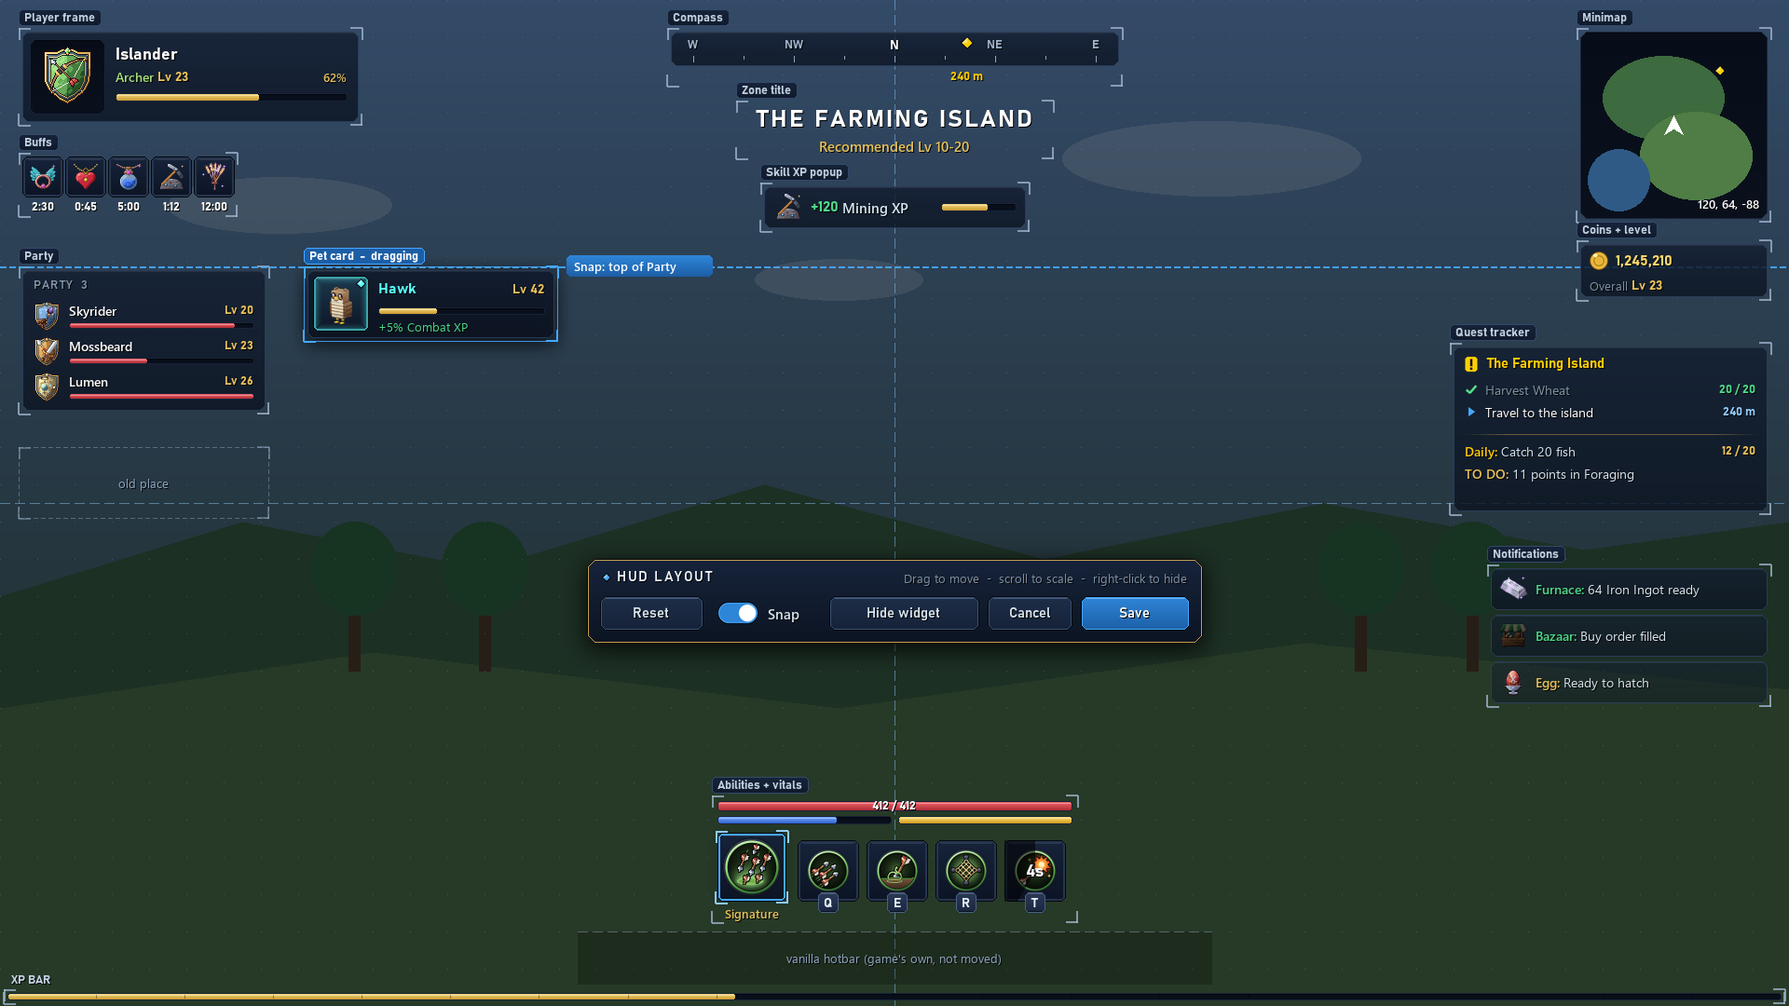
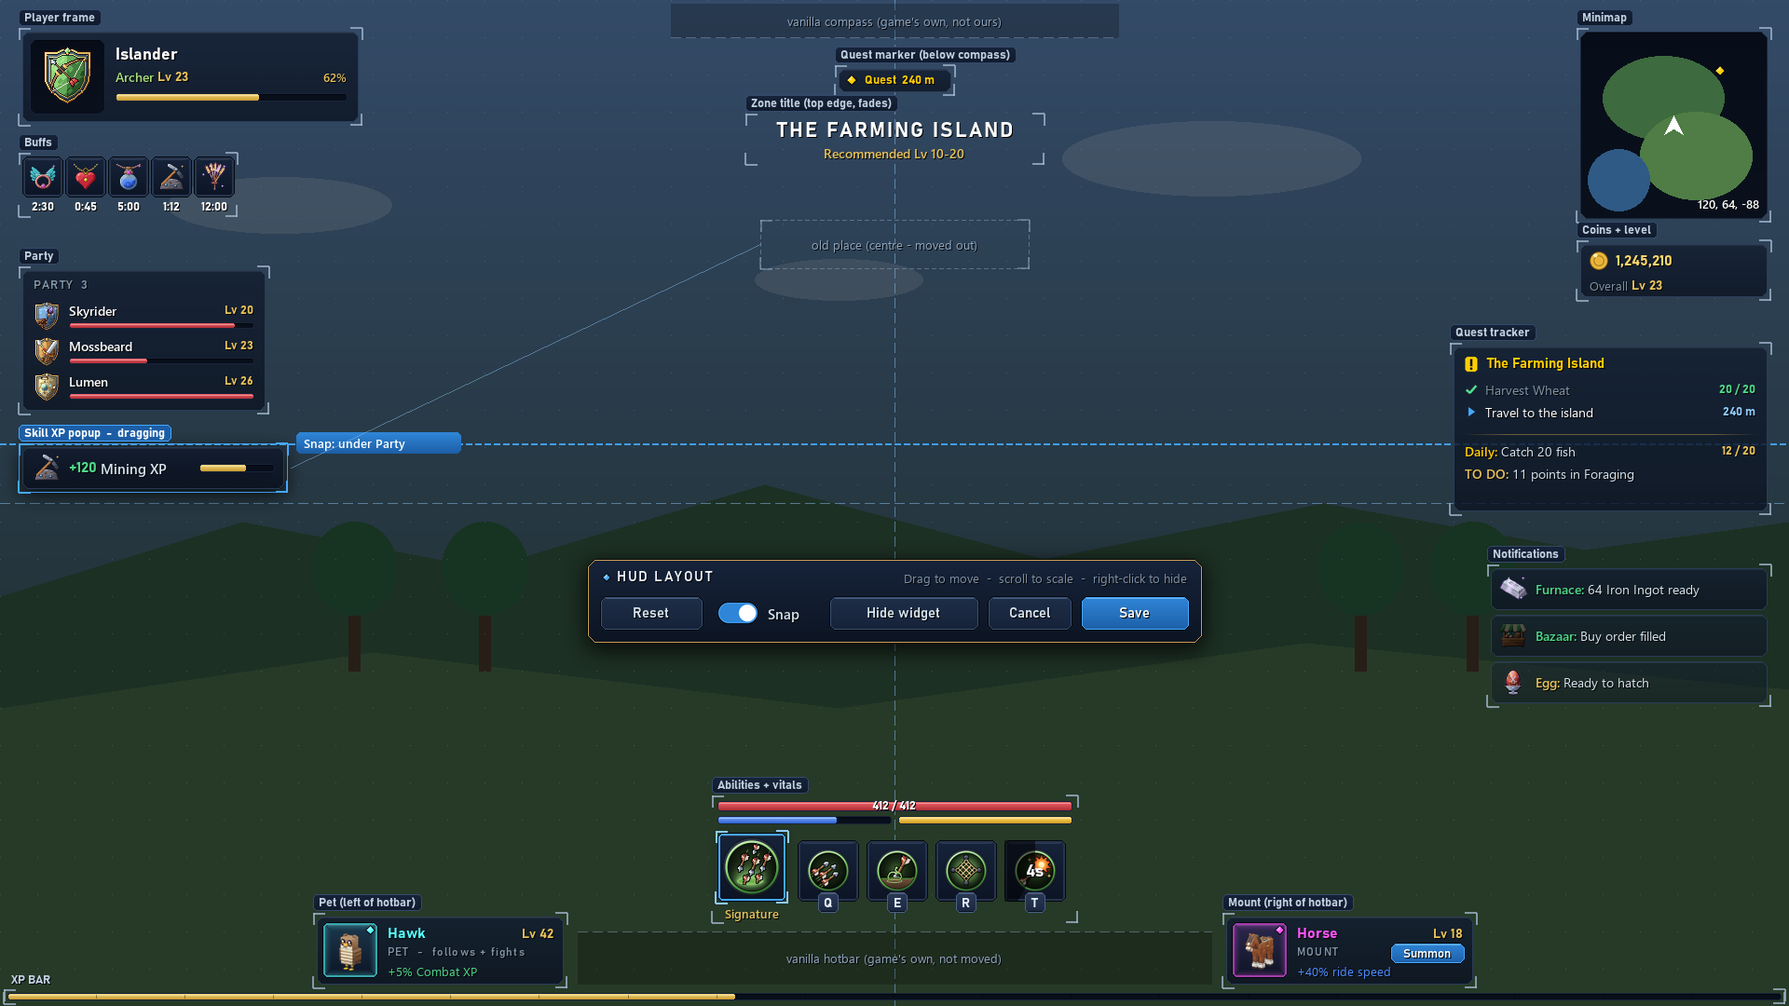
art: HUD v5 (vanilla compass kept, centre clear, pet left / mount right of hotbar); pet + mount slot change recorded

diff --git a/research/ui-theme-art/make_ui_theme.py b/research/ui-theme-art/make_ui_theme.py
@@ -2742,7 +2742,69 @@ def dashed(im, pts, col, alpha=170, dash=10, gap=6, width=1):
             d.line([(x, y0), (min(x1, x + dash), y0)], fill=rgb(col, alpha), width=width)
 
 
-def make_hud_editor():
+def _hud_v4_petdrag(im, W):
+    gbox = (20, 480, 288, 556)
+    brackets(im, gbox, "", ghost=True)
+    text(im, (154, 518), "old place", font("body", 13), "#8fa6c0", "mm")
+    nx0, ny0 = 330, 290
+    nb = (nx0, ny0, nx0 + 264, ny0 + 72)
+    shadow(im, nb, 10, 200, 6)
+    hud_panel(im, nb, 235)
+    slot(im, nx0 + 6, ny0 + 6, "empty", RAR["Legendary"], I_PET % "Hawk", size=60)
+    text(im, (nx0 + 76, ny0 + 20), "Hawk", font("headb", 16), RAR["Legendary"], "lm")
+    text(im, (nx0 + 254, ny0 + 20), "Lv 42", font("headb", 14), PAL["xp"], "rm")
+    bar(im, (nx0 + 76, ny0 + 40, nx0 + 254, ny0 + 47), 0.35, "xp")
+    text(im, (nx0 + 76, ny0 + 60), "+5% Combat XP", font("body", 13), PAL["green"], "lm")
+    brackets(im, (nb[0] - 4, nb[1] - 4, nb[2] + 4, nb[3] + 4), "Pet card  -  dragging", active=True)
+    dashed(im, ((0, ny0 - 4), (W, ny0 - 4)), A["base"], 230, 6, 4, 2)
+    grad_fill(im, (nb[2] + 14, ny0 - 16, nb[2] + 170, ny0 + 6), A["btnTop"], A["btnBot"], c=3)
+    text(im, (nb[2] + 22, ny0 - 5), "Snap: top of Party", font("bodyb", 13), "#ffffff", "lm", shadow=False)
+
+
+def _hud_v4_compass(im, d):
+    # ---- compass + quest marker (top centre)
+    cb = (720, 34, 1200, 70)
+    hud_panel(im, cb)
+    d = ImageDraw.Draw(im, "RGBA")
+    for i, lab in enumerate(("W", "", "NW", "", "N", "", "NE", "", "E")):
+        x = 744 + i * 54
+        d.line([(x, 60), (x, 66 if lab else 63)], fill=rgb("#8fa6c0"))
+        if lab:
+            text(im, (x, 48), lab, font("headb", 14 if lab == "N" else 13), "#ffffff" if lab == "N" else "#9fb3cc", "mm")
+    put(im, g_diamond(14, PAL["action"]), 1031, 39)
+    text(im, (1038, 82), "240 m", font("headb", 13), PAL["action"], "mm")
+    brackets(im, (716, 30, 1204, 92), "Compass")
+    # ---- zone title
+    text(im, (960, 128), "THE FARMING ISLAND", font("headb", 26), "#ffffff", "mm", track=2)
+    text(im, (960, 156), "Recommended Lv 10-20", font("bodyb", 15), PAL["xp"], "mm")
+    brackets(im, (790, 108, 1130, 170), "Zone title")
+    # ---- skills XP popup
+    sb = (820, 200, 1100, 244)
+    hud_panel(im, sb)
+    paste_icon(im, I_WARP % "Mining", 830, 206, 32)
+    rich(im, 870, 222, [("+120 ", font("headb", 16), PAL["green"]), ("Mining XP", font("bodyb", 15), PAL["row"])])
+    bar(im, (1010, 218, 1090, 226), 0.62, "xp")
+    brackets(im, (816, 196, 1104, 248), "Skill XP popup")
+
+
+def pet_mount_card(im, x0, y0, cap, ic, nm, lv, r, sub, subcol, keycap=None):
+    """v5 bottom cards beside the hotbar (Skyy 11-14: pets left of the hotbar, mount right)."""
+    nb = (x0, y0, x0 + 264, y0 + 72)
+    hud_panel(im, nb, 225)
+    slot(im, x0 + 6, y0 + 6, "empty", RAR[r], I_PET % ic, size=60)
+    text(im, (x0 + 76, y0 + 18), nm, font("headb", 16), RAR[r], "lm")
+    text(im, (x0 + 254, y0 + 18), lv, font("headb", 14), PAL["xp"], "rm")
+    text(im, (x0 + 76, y0 + 38), cap, font("head", 12), PAL["dim"], "lm", track=1.2)
+    text(im, (x0 + 76, y0 + 58), sub, font("body", 13), subcol, "lm")
+    if keycap:
+        button(im, (x0 + 176, y0 + 28, x0 + 256, y0 + 50), "Summon", "primary", fsize=13)
+    return nb
+
+
+def make_hud_editor(v5=True):
+    """v4 = first HUD editor; v5 = Skyy 11-14 review: "the game already has a compass, so if we do anything thewre it has to be below
+    ithe vanilla one" + "try to keep things out of the center of the screen put pets to the left of the hot bar and mount to the right."
+    """
     set_accent("Sky Azure")
     W, H = 1920, 1080
     im = hud_world(W, H)
@@ -2778,46 +2840,43 @@ def make_hud_editor():
         text(im, (272, y + 9), "Lv %d" % (20 + i * 3), font("headb", 13), PAL["xp"], "rm")
         bar(im, (74, y + 22, 272, y + 28), hp, "health")
     brackets(im, (20, py - 4, 288, py + 154), "Party")
-    # ---- pet card: being dragged (ghost = old place, accent outline, snap guide)
-    gbox = (20, 480, 288, 556)
-    brackets(im, gbox, "", ghost=True)
-    text(im, (154, 518), "old place", font("body", 13), "#8fa6c0", "mm")
-    nx0, ny0 = 330, 290
-    nb = (nx0, ny0, nx0 + 264, ny0 + 72)
-    shadow(im, nb, 10, 200, 6)
-    hud_panel(im, nb, 235)
-    slot(im, nx0 + 6, ny0 + 6, "empty", RAR["Legendary"], I_PET % "Hawk", size=60)
-    text(im, (nx0 + 76, ny0 + 20), "Hawk", font("headb", 16), RAR["Legendary"], "lm")
-    text(im, (nx0 + 254, ny0 + 20), "Lv 42", font("headb", 14), PAL["xp"], "rm")
-    bar(im, (nx0 + 76, ny0 + 40, nx0 + 254, ny0 + 47), 0.35, "xp")
-    text(im, (nx0 + 76, ny0 + 60), "+5% Combat XP", font("body", 13), PAL["green"], "lm")
-    brackets(im, (nb[0] - 4, nb[1] - 4, nb[2] + 4, nb[3] + 4), "Pet card  -  dragging", active=True)
-    dashed(im, ((0, ny0 - 4), (W, ny0 - 4)), A["base"], 230, 6, 4, 2)
-    grad_fill(im, (nb[2] + 14, ny0 - 16, nb[2] + 170, ny0 + 6), A["btnTop"], A["btnBot"], c=3)
-    text(im, (nb[2] + 22, ny0 - 5), "Snap: top of Party", font("bodyb", 13), "#ffffff", "lm", shadow=False)
-    # ---- compass + quest marker (top centre)
-    cb = (720, 34, 1200, 70)
-    hud_panel(im, cb)
+    if v5:
+        # ---- Skill XP popup: dragged OFF the centre (ghost = its v4 place under the compass), snapping under the Party list
+        brackets(im, (816, 236, 1104, 288), "", ghost=True)
+        text(im, (960, 262), "old place (centre - moved out)", font("body", 13), "#8fa6c0", "mm")
+        sx0, sy0 = 24, 480
+        sb = (sx0, sy0, sx0 + 280, sy0 + 44)
+        shadow(im, sb, 10, 200, 6)
+        hud_panel(im, sb, 235)
+        paste_icon(im, I_WARP % "Mining", sx0 + 10, sy0 + 6, 32)
+        rich(im, sx0 + 50, sy0 + 22, [("+120 ", font("headb", 16), PAL["green"]), ("Mining XP", font("bodyb", 15), PAL["row"])])
+        bar(im, (sx0 + 190, sy0 + 18, sx0 + 270, sy0 + 26), 0.62, "xp")
+        brackets(im, (sb[0] - 4, sb[1] - 4, sb[2] + 4, sb[3] + 4), "Skill XP popup  -  dragging", active=True)
+        dashed(im, ((0, sy0 - 4), (W, sy0 - 4)), A["base"], 230, 6, 4, 2)
+        grad_fill(im, (sb[2] + 14, sy0 - 16, sb[2] + 190, sy0 + 6), A["btnTop"], A["btnBot"], c=3)
+        text(im, (sb[2] + 22, sy0 - 5), "Snap: under Party", font("bodyb", 13), "#ffffff", "lm", shadow=False)
+        d = ImageDraw.Draw(im, "RGBA")
+        d.line([(816, 262), (sb[2] + 8, sy0 + 22)], fill=rgb(A["hi"], 110), width=1)
+    else:
+        _hud_v4_petdrag(im, W)
     d = ImageDraw.Draw(im, "RGBA")
-    for i, lab in enumerate(("W", "", "NW", "", "N", "", "NE", "", "E")):
-        x = 744 + i * 54
-        d.line([(x, 60), (x, 66 if lab else 63)], fill=rgb("#8fa6c0"))
-        if lab:
-            text(im, (x, 48), lab, font("headb", 14 if lab == "N" else 13), "#ffffff" if lab == "N" else "#9fb3cc", "mm")
-    put(im, g_diamond(14, PAL["action"]), 1031, 39)
-    text(im, (1038, 82), "240 m", font("headb", 13), PAL["action"], "mm")
-    brackets(im, (716, 30, 1204, 92), "Compass")
-    # ---- zone title
-    text(im, (960, 128), "THE FARMING ISLAND", font("headb", 26), "#ffffff", "mm", track=2)
-    text(im, (960, 156), "Recommended Lv 10-20", font("bodyb", 15), PAL["xp"], "mm")
-    brackets(im, (790, 108, 1130, 170), "Zone title")
-    # ---- skills XP popup
-    sb = (820, 200, 1100, 244)
-    hud_panel(im, sb)
-    paste_icon(im, I_WARP % "Mining", 830, 206, 32)
-    rich(im, 870, 222, [("+120 ", font("headb", 16), PAL["green"]), ("Mining XP", font("bodyb", 15), PAL["row"])])
-    bar(im, (1010, 218, 1090, 226), 0.62, "xp")
-    brackets(im, (816, 196, 1104, 248), "Skill XP popup")
+    if v5:
+        # ---- the game's OWN compass stays (ghost); ours only adds a thin quest marker strip BELOW it
+        cb = (720, 4, 1200, 40)
+        d.rectangle(cb, fill=(0, 0, 0, 60))
+        dashed(im, ((cb[0], cb[3]), (cb[2], cb[3])), "#8fa6c0", 120)
+        text(im, (960, 22), "vanilla compass (game's own, not ours)", font("body", 13), "#8fa6c0", "mm")
+        qb = (900, 74, 1020, 98)
+        hud_panel(im, qb)
+        put(im, g_diamond(12, PAL["action"]), 908, 80)
+        text(im, (928, 86), "Quest  240 m", font("headb", 13), PAL["action"], "lm")
+        brackets(im, (896, 70, 1024, 102), "Quest marker (below compass)")
+        # ---- zone title: a slim banner under the compass strip, top edge only (fades after a few seconds)
+        text(im, (960, 140), "THE FARMING ISLAND", font("headb", 22), "#ffffff", "mm", track=2)
+        text(im, (960, 164), "Recommended Lv 10-20", font("bodyb", 14), PAL["xp"], "mm")
+        brackets(im, (800, 122, 1120, 176), "Zone title (top edge, fades)")
+    else:
+        _hud_v4_compass(im, d)
     # ---- minimap + coins / overall level (top-right)
     mb = (1696, 34, 1896, 234)
     panel(im, mb, inset=True, c=6)
@@ -2888,6 +2947,13 @@ def make_hud_editor():
     d.rectangle(hb, fill=(0, 0, 0, 60))
     dashed(im, ((hb[0], hb[1]), (hb[2], hb[1])), "#8fa6c0", 120)
     text(im, (960, 1028), "vanilla hotbar (game's own, not moved)", font("body", 13), "#8fa6c0", "mm")
+    if v5:
+        pb = pet_mount_card(im, hb[0] - 280, 984, "PET  -  follows + fights", "Hawk", "Hawk", "Lv 42", "Legendary",
+                            "+5% Combat XP", PAL["green"])
+        brackets(im, (pb[0] - 4, pb[1] - 4, pb[2] + 4, pb[3] + 4), "Pet (left of hotbar)")
+        mb2 = pet_mount_card(im, hb[2] + 16, 984, "MOUNT", "Horse", "Horse", "Lv 18", "Rare", "+40% ride speed", PAL["mana"],
+                             keycap="Z")
+        brackets(im, (mb2[0] - 4, mb2[1] - 4, mb2[2] + 4, mb2[3] + 4), "Mount (right of hotbar)")
     # ---- full-width XP bar
     bar(im, (8, 1066, 1911, 1073), 0.41, "xp", segs=20)
     brackets(im, (4, 1062, 1915, 1077), "")
@@ -3207,7 +3273,7 @@ def main():
            "inventory-mockup-mining.png": lambda: make_mockup_v3("mining", True),
            "inventory-mockup-chest.png": lambda: make_mockup_v3("chest", True),
            "inventory-mockup-furnace.png": lambda: make_mockup_v3("furnace", True),
-           "upgrade-mockup.png": make_upgrade, "hud-editor-mockup.png": make_hud_editor,
+           "upgrade-mockup.png": make_upgrade, "hud-editor-mockup.png": make_hud_editor, "hud-editor-mockup-v4.png": lambda: make_hud_editor(False),
            "accent-options.png": make_accents}
     only = sys.argv[1:]
     for fn, maker in out.items():

diff --git a/docs/answered/ui.md b/docs/answered/ui.md
@@ -203,3 +203,4 @@ New answers go in the 'New answers' block at the end and leave OPEN-QUESTIONS.md
 - 2026-11-14 UI (v3 review, with screenshots of today's Crafting > Smithing / Upgrade pages): Skyy "hang on, more changes coming. first, above the player and armor where it says character. remove those and reequip presets. (start with combat, mining, farming, foraging and fishing. all of them that have sets here. remove crafting from the top row, all crafting will be handled in the normal inventory crafting now. and replace it with a single upgrade tab, that combines all there here, smithing, anvil, and upgrade. the idea is pretty simple. the upgrade page has combat, mining, farming, foraging and fishing at the top (icons for small buttons.) you click mining. it shows your tool and its upgrades, and your current armor with an upgrade button next to it, and an upgrade full set below. (hover over each item to see its stats, and click the reforge button to reforge. there should also be an apply sigil button. (basically we need a clean simple way to turn smithing, anvil, and upgrade into 1 easy upgrade menu." -> (1) the Character header row becomes Requip preset buttons: Combat, Mining, Farming, Foraging, Fishing (one per armor-set family; click = swap to that loadout); (2) the top-row Crafting tab is REMOVED - all crafting happens in the inventory crafting; (3) a new UPGRADE tab replaces it = Smithing + Anvil + Upgrade in one page: small icon buttons Combat / Mining / Farming / Foraging / Fishing on top; picking one shows that family's tool (lifelong tool, its upgrade points + tier up), your worn armor pieces each with Upgrade, an Upgrade full set button, hover = stats, Reforge and Apply Sigil buttons. Defaults until Skyy says otherwise: processing stations (Furnace, Cooking, Tanning ...) become bench tabs / queues in inventory crafting; plain combat sets + weapons craft in inventory crafting (Armor / Weapon bench tabs); the Upgrade page tiers them up.
 - 2026-11-14 HUD EDITOR (Skyy, screenshot of Runeteria's HUD layout editor): "and lets try to make our hud editor look and work like theirs." -> what the screenshot shows (ideas only, no art copied): every HUD widget visible at once with thin corner-bracket outlines (player frame with portrait / level / XP, target frame, party list with health bars, buff icons with timers, milestone toast, compass + objective arrow + distance, zone title with recommended level, notification stack, world event, quest tracker, achievements, recent loot, ability bar with keys + HP / mana bars, full-width XP bar), a vertical + horizontal centre guide line, drag a widget to move it. -> our SkyyHud layout editor gets that look + drag-to-move in phase P7 (research/Inventory-Screen-Plan.md); in the theme art next.
 - 2026-11-14 PROCESSING STATIONS (Skyy, on the default 'Furnace, Cooking and Tanning become bench tabs in inventory crafting'): "yes" + "but furnace and tanning will have a custom look and work more like they do in our pack than they do in vanilla" -> Furnace, Cooking, Tanning = tabs in inventory crafting; the Furnace and Tanning tabs keep OUR pack's behaviour (timed queue with Collect, All / x10, ingots first by tier, Void + bag stock) in the custom theme, not the vanilla processing window.
+- 2026-11-14 HUD EDITOR v4 REVIEW (Skyy, on research/ui-theme-art/hud-editor-mockup.png): "the game already has a compass, so if we do anything thewre it has to be below ithe vanilla one, or a mod to the vanilla one. try to keep things out of the center of the screen put pets to the left of the hot bar and mount to the right." -> HUD layout v5: no compass of ours (the vanilla compass stays top-centre; anything of ours goes BELOW it or modifies it); keep the centre of the screen clear (zone title / Skill XP popup move off the middle); pet card LEFT of the hotbar, mount card RIGHT of the hotbar.

diff --git a/research/ui-theme-art/README.md b/research/ui-theme-art/README.md
@@ -13,6 +13,16 @@ Skyy's words behind it (docs/answered/ui.md):
 
 Runeteria's screen gave the ideas only. Its art, colours and layout details were not copied.
 
+## v5 HUD (2026-11-14, Skyy's review of the HUD editor)
+Skyy: "the game already has a compass, so if we do anything thewre it has to be below ithe vanilla one, or a mod to the vanilla one. try to
+keep things out of the center of the screen put pets to the left of the hot bar and mount to the right."
+- **`hud-editor-mockup.png` (v5):** our compass is gone; the game's own compass stays top-centre (shown as a ghost) and we only add a thin
+  quest-distance strip BELOW it. The zone title sits on the top edge and fades. The Skill XP popup is shown being dragged out of the centre
+  to snap under the Party list. The PET card is left of the vanilla hotbar, the MOUNT card right of it with a Summon button.
+- The old picture is kept as `hud-editor-mockup-v4.png` (same generator, `make_hud_editor(False)`).
+- Pet / mount change behind the cards (docs/answered/pets.md 2026-11-14): the mount slot is for riding - summon (button / key / Z bar) puts
+  you on it, hopping off makes it vanish; pet-slot pets follow, and combat pets now fight from the pet slot. That is a SkyyPets round, queued.
+
 ## v4 (2026-11-14, Upgrade tab + Requip presets + Furnace + HUD editor)
 Skyy's words are in docs/answered/ui.md (newest lines): "remove crafting from the top row, all crafting will be handled in the normal
 inventory crafting now. and replace it with a single upgrade tab, that combines all there here, smithing, anvil, and upgrade ...
@@ -186,7 +196,8 @@ What changed:
 | `inventory-mockup-chest.png` | v4. The screen opened on a chest. |
 | `inventory-mockup-furnace.png` | v4. The Craft panel on the Furnace tab (our pack's furnace: list, fuel, queue, Collect). |
 | `upgrade-mockup.png` | v4. The Upgrade tab (Smithing + Anvil + Upgrade), Mining picked. |
-| `hud-editor-mockup.png` | v4. The HUD layout editor with every widget, one being dragged. |
+| `hud-editor-mockup.png` | v5. The HUD layout editor: vanilla compass kept, centre clear, pet left / mount right of the hotbar. |
+| `hud-editor-mockup-v4.png` | v4 of the HUD editor (kept). |
 | `*-v3.png` | v3, kept. |
 | `inventory-mockup-v2.png`, `inventory-mockup-mining-v2.png` | v2, kept. |
 | `inventory-mockup-v1.png` | v1, kept for comparison. |

diff --git a/docs/answered/pets.md b/docs/answered/pets.md
@@ -80,3 +80,4 @@ New answers go in the 'New answers' block at the end and leave OPEN-QUESTIONS.md
 - 2026-11-03 TEST: "i cant ride the dragon" -> investigate (SkyyPets dragon pets / mounts) and fix.
 - 2026-11-08 (Skyy): "riding the horse and dragon is buggy" -> log 07-22-46: 7 SEVERE [RoleChangeSystem] Failed to change role: Archetype doesn't contain ComponentType (the entity has NPCMountComponent; the missing one named is Interactable), each followed by "[Pets] Your Horse could not carry you - press F on it again". Pets round tag ride2.
 - 2026-11-08 (Skyy): "and make the dragon follow at a further distance, or fly around you unless its attacking mobs. cause it gets in the way. and have the dragon target mobs aggressively" -> summoned dragon keeps out of the way (circles above / around the owner when not fighting) and picks fights with nearby hostile mobs on its own.
+- 2026-11-14 PET SLOT vs MOUNT SLOT CHANGE (Skyy): "you have a pet slot, and a mount slot. the mount slot if for riding, i want to summon it with a button or hot key, (or put it in the off hand bar you pop up by holding Z like in the runtaria server.) when you summon the mount it puts you on it, and when you hop off it vanishes. pets equipped in the pet slot flow around you like normal. combat pets will attack when in pet slot. (pets that are all 3 like the dragon will stay around and fight in the pet slot, and just summon in the mount slot" -> REPLACES the 2026-10-10 summon-slot rule: the second slot = MOUNT slot, for riding only; summon it with a button / key (default: a summon button on the HUD mount card + an entry in the Z off-hand bar once the inventory screen has it) -> it spawns under you and seats you; hop off = it vanishes. PET slot: the pet follows you as today; COMBAT (fighter) pets now ATTACK from the pet slot. Pets that are pet + fighter + mount (dragons) follow and fight in the pet slot, and are only summoned to ride in the mount slot. [default for open points: mount-slot buff share stays 50%; summoning has a short cooldown] - SkyyPets round (queued, RESUME).

diff --git a/docs/log/2026-11.md b/docs/log/2026-11.md
@@ -63,3 +63,4 @@
 - 2026-11-14 -0600: ART P0b v2 committed (research/ui-theme-art/: Sky Azure LOCKED, Craft / pocket tab row swaps the top panel, Mining pocket view, vanilla crafting layout with bench tabs, labelled off-hand / utility / tool slots, compact Skills + Right now). Skyy video 2026-11-14_17-07-15.mp4 (6 min, NO voice - game sound only): compares Runeteria's Overview (Pocket Crafting top-centre; a backpack swaps it with 'Back to crafting'; Professions = compact 3-wide icon grid with Lv/99; trinkets column right of the character; custom chest screen) with our v1 mockup; likes / dislikes not recoverable without notes - asked Skyy to type them.
 - 2026-11-14 -0600: ART P0b v3 committed (inventory-mockup / -mining / -chest: Runeteria-style crafting with bench icon tabs (no charms / pets / fishing), compact Skills grid, quests in Right now, icon header buttons, teleport mini hotbar, off-hand slots, chest view); Skyy's voice review transcribed offline with Vosk (research/ui-theme-art/skyy-review-1114.md). IDEA: Requip rework on the new screen.
 - 2026-11-14 -0600: ART P0b v4 committed (research/ui-theme-art/: Requip presets in the character header, Upgrade tab replaces Crafting (upgrade-mockup: tool card + points + tier up, armor pieces with Upgrade / Reforge / Apply Sigil, full set), Furnace tab in our pack style, HUD editor like Runeteria's (brackets, centre guides, drag + snap)). Waiting on Skyy's approval.
+- 2026-11-14 -0600: ART HUD v5 committed (hud-editor-mockup.png: vanilla compass kept, quest strip below it, centre clear, Skill XP popup dragged out of the centre, pet card left / mount card right of the hotbar; v4 kept as hud-editor-mockup-v4.png). Skyy's pet / mount slot change recorded (docs/answered/pets.md) and queued as RESUME NEXT 0a.

diff --git a/RESUME.md b/RESUME.md
@@ -35,6 +35,7 @@ Leftover local jobs (beta bugs): `LOCAL-RESUME.md`. Older RESUME detail: git his
 - After Skyy plays: skill `skywynn-logs` + the SHARED-EXECUTOR check (SackBeat 'shared scheduler stalls' + 'tick max').
 
 ## NEXT (in order; Gear / Mobs rounds one at a time; launch with Workflow `skywynn-round`, Skyy's own words in quotes)
+0a. PETS round (Skyy 11-14, docs/answered/pets.md): mount slot = ride only (summon -> seats you, hop off -> vanishes; summon button on the HUD mount card / key / Z bar later); combat pets FIGHT from the pet slot; dragons fight in the pet slot, ride from the mount slot. Replaces the 10-10 summon-slot rule. HUD v5: pet card left of the hotbar, mount right, nothing of ours on the vanilla compass (only below it), centre clear.
 0. From 11-08: next Bazaar rebuild MUST move the 18 Enchanted metals from its Mining tab to Smithing (it asserts BAG_OF == EN.cat_of against the pinned Sacks). Trees 0.6.8: DefaultOk on the sickle Replace (Skyy_Tree_HarvR_HE SEVERE, docs/log 11-08). Armory ArmoryCheck one-shot boot check needs the same retry as Skills PACK_MAX. Economy check: Bazaar Enchanted sell price vs 100x base, for compressed shard stock. Gear SX_PACK row for DualRuneBlade (The Armory 1.25.1 removed its Ability 1).
 1. sig3b Gear half: Weapon_Staff_Doomed into ut_vanilla LOOKS, sig.ut defaults (Paperweight -20, Ricochet +25), C+ charge rules, orange
    signature names, gear:fn:elemPower (apply(UUID) -> "Earth:0,Thunder:3,...", Menu 0.3.49 already reads it), GearPool.leanHit full-family fix

diff --git a/research/Inventory-Screen-Plan.md b/research/Inventory-Screen-Plan.md
@@ -114,6 +114,7 @@ Hytale 0.7 server can do it). Ideas and layout only - never Runeteria's art, tex
 - **P5 Crafting tab** pages in the station layout + craft result popup (Gear, Sacks, Cooking).
 - **P6 Other tabs** moved to the theme one by one (Class, Pets, Collections + drops codex, Quests, World, Market, Social, Settings).
 - **P7 HUD** (locked ability slots with level + key, class XP bar, objective + distance under the compass, portrait frame).
+  Skyy 11-14 (HUD v5): never draw over the vanilla compass (only below it, or mod it); keep the screen centre clear; pet card LEFT of the hotbar, mount card RIGHT (with Summon).
 - **P8 First-join class picker** (Runeteria's "Create your character" idea: preview, crests, what you'll do, first ability).
 
 ## 7. Risks
